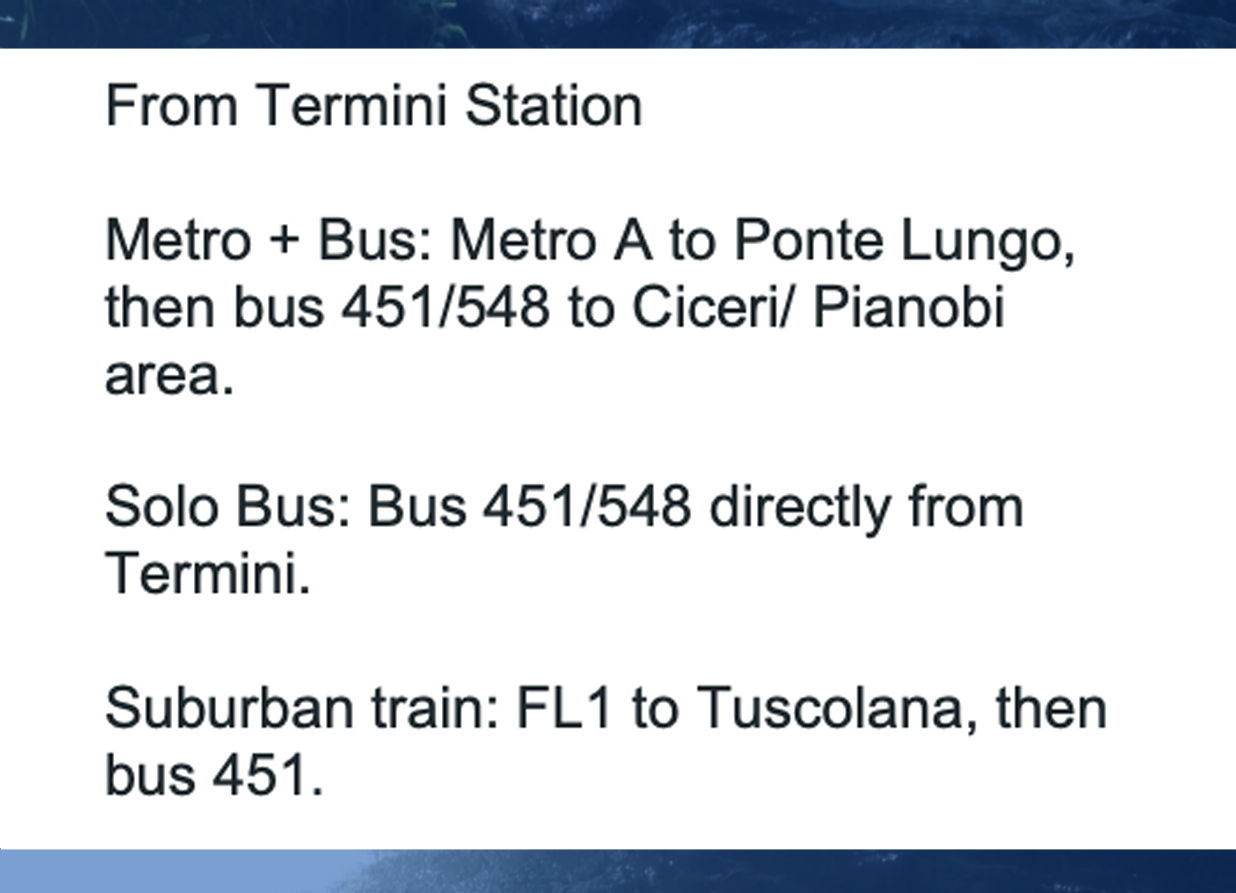
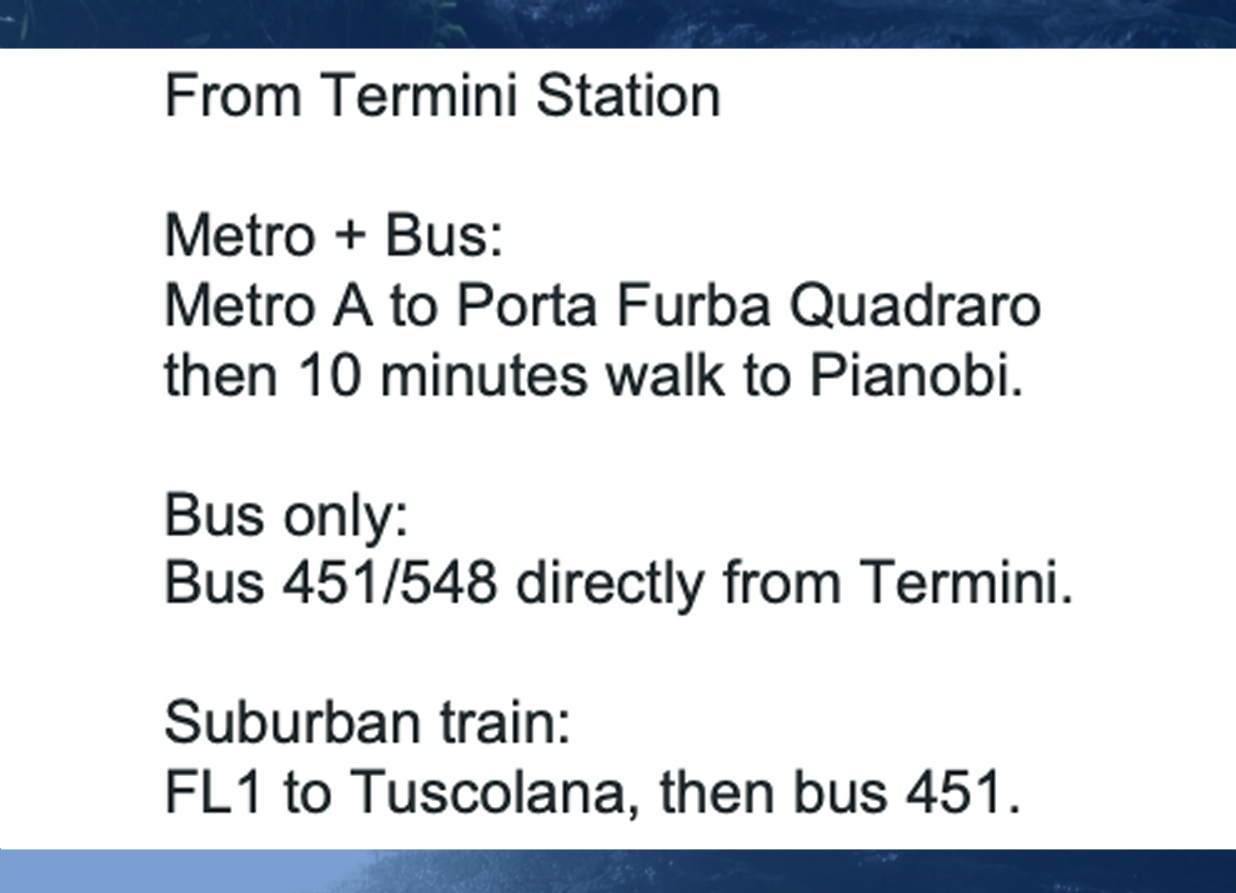
CorrectionPianoBi

diff --git a/src/pages/NewProgrammaFile/NewProgramma.js b/src/pages/NewProgrammaFile/NewProgramma.js
@@ -448,11 +448,11 @@ const Programma = () => {
 
   const MatteoBasileImages = [{ src: RitVuoto, alt: "" }];
 
-  const AcquedottoFotoImageMap = {
-    en: Acquedotto,
-    fr: Acquedotto,
-    it: Acquedotto,
-  };
+  // const AcquedottoFotoImageMap = {
+  //   en: Acquedotto,
+  //   fr: Acquedotto,
+  //   it: Acquedotto,
+  // };
 
   const MatteoBasileBookImages = {
     it: ContainerIMG,
@@ -1913,21 +1913,21 @@ const Programma = () => {
               to: (
                 <FromStation
                   className={styles.IconStandard}
-                  imageMap={ToParcoTorFiscaleImageMap}
+                  imageMap={ToPianoBiImageMap}
                   altKey="program.fromStationAlt"
                 />
               ),
               book: (
                 <Book
                   className={styles.IconStandard}
-                  imageMap={ParcoTorFiscaleBookImageMap}
+                  imageMap={PianoBiBookImageMap}
                   altKey="program.bookAlt"
                 />
               ),
               foto: (
                 <Foto
                   className={styles.IconStandard}
-                  imageMap={AcquedottoFotoImageMap}
+                  imageMap={PianoBiFotoImageMap}
                   altKey="program.fotoAlt"
                 />
               ),

diff --git a/src/pages/LinksPageFile/LinksPage.js b/src/pages/LinksPageFile/LinksPage.js
@@ -3,11 +3,11 @@ import React from "react";
 import { useTranslation, Trans } from "react-i18next";
 import Logo from "../../assets/images/LogoOndaBlue2.png";
 import LogoCiC from "../../assets/images/LogoCiC.png";
+import Facebook from "../../assets/images/Facebook.png";
+import Instagram from "../../assets/images/Instagram.png";
 import styles from "./LinksPage.module.css";
 import BackgroundFoto from "../../assets/images/BackgroundFoto5.png";
 import Link from "../../assets/images/Link.png";
-import Facebook from "../../assets/images/Facebook.png";
-import Instagram from "../../assets/images/Instagram.png";
 import LinkVide from "../../assets/images/LinkVide.png";
 import LogoOpenPolis from "../../assets/images/LogoOpenPolis.png";
 import LogoComitato from "../../assets/images/LogoComitato.png";
